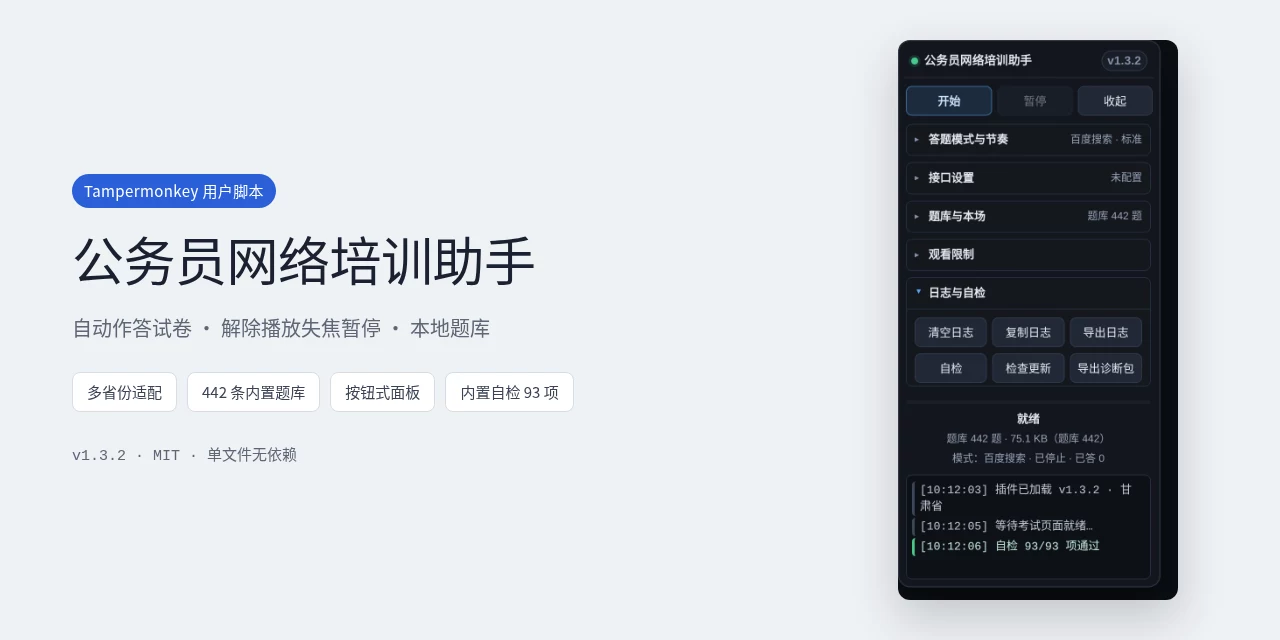
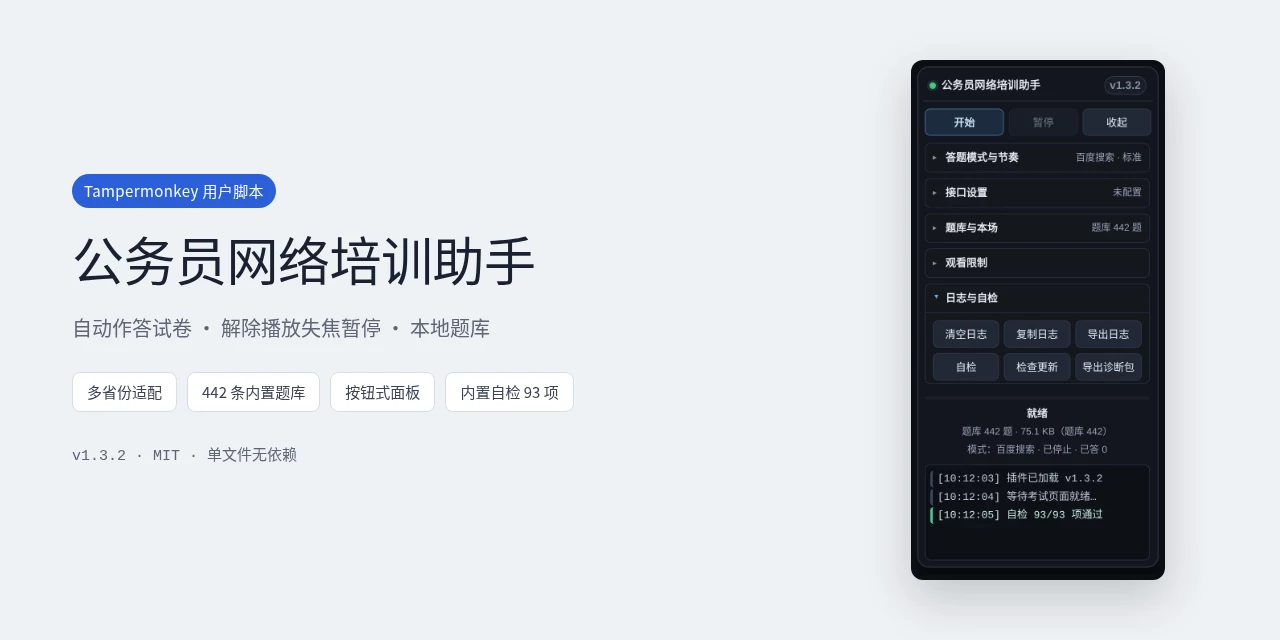
docs: 配图裁齐（-trim 后四边留白一致），演示日志压到单行
- 视口给足 380x760 再 ImageMagick -trim 按像素裁，统一加 16px 边框；
  实测四边都是 16px（原先是左/上/下 0、右侧 20px 黑边）
- 演示日志去掉「· 甘肃省」：等宽字体下定宽面板多一个字就折行，图上像被截断
- 社交预览面板 max-height 520px，不再贴死画布上下边界

Changed region(s): [[0.6875, 0.0625, 0.9375, 0.9375]]

diff --git a/docs/IMAGE_PIPELINE.md b/docs/IMAGE_PIPELINE.md
@@ -26,9 +26,14 @@ node tools/generate-docs-images.mjs --version 1.1.1
 3. 面板在脚本里是 `position: fixed` 挂右上角的。配图要它成为画面主体，
    所以往**影子根内**注入一段样式把它改成 `position: static`。
    外部 `<style>` 一律进不了 Shadow DOM —— 这是本项目最容易踩的坑；
-4. 截 320×640、`--force-device-scale-factor=2` → 输出 640×1280。
+4. 截图时视口故意给大（380×760 @2x），再用 ImageMagick `-trim` 按实际像素**裁掉多余背景**，
+   最后统一加 16px 边框。视口尺寸是估的，估大了是一圈不匀的黑边、估小了面板会被裁掉一角，
+   按像素裁才两头都稳。最终输出约 632×1298。
 
 尺寸比法宣（316×561）略高：本脚本比它多一个「观看限制」分类、日志行也多一颗按钮。
+
+演示日志每条都控制在一行内 —— 日志框是等宽字体 + 定宽面板，多一个字就折行，
+图上像被截断。
 
 社交预览是独立 HTML：左侧标题与特性标签，右侧嵌入刚生成的面板图（按 `max-height` 缩放，
 不能只固定宽度，否则细长的面板图会被 640px 的画布裁掉），1280×640 截一次，再用 ffmpeg 转 WebP。
@@ -47,6 +52,7 @@ node tools/generate-docs-images.mjs --version 1.1.1
 | Chrome / Chromium | 渲染截图 | `CHROME=/path/to/chrome` |
 | ffmpeg | PNG → WebP | `FFMPEG=/path/to/ffmpeg` |
 | 中文字体 | 否则中文显示为方框 | 系统安装即可（**不需要** emoji 字体） |
+| ImageMagick | 面板图裁边（`-trim`） | `MAGICK=/path/to/magick`；缺了只警告、不中断 |
 
 缺 Chrome 或 ffmpeg 时脚本直接报错退出，不会产出半成品。
 

diff --git a/CHANGELOG.md b/CHANGELOG.md
@@ -50,6 +50,12 @@
 
 ### 修复
 
+- **配图四周留白不匀**：截图视口是估的，估大就多出一圈黑边（实测左/上/下 0、右侧 20px）。
+  改为视口给足余量 + ImageMagick `-trim` 按实际像素裁，再统一加 16px 边框，
+  四边实测都是 16px。缺 ImageMagick 时只警告、不中断。
+- **演示日志折行**：日志框是等宽字体 + 定宽面板，首条多一个「· 甘肃省」就折成两行，
+  图上像被截断。三条日志都压到一行内。
+- 社交预览里面板贴死在画布上下边界：改 `max-height:520px` 让它留出呼吸空间。
 - README 配图路径从 `docs/panel.png` 改为 `docs/panel.webp`（PNG 409 KB → WebP 53 KB）。
 - 社交预览里的面板图改为按 `max-height` 缩放：只固定宽度时，细长的面板图会被
   640px 画布裁掉一截（右侧缺一列按钮）。
